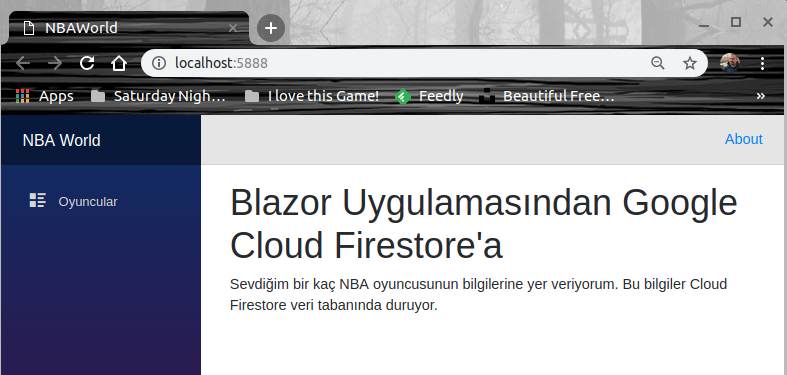
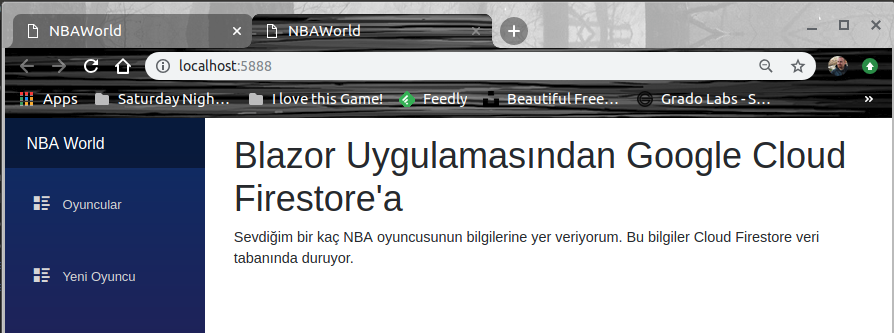
silme operasyonu eklendi

diff --git a/No 35 - Server Side Blazor with Firestore/src/NBAWorld/NBAWorld.Client/Pages/PlayerData.cshtml.cs b/No 35 - Server Side Blazor with Firestore/src/NBAWorld/NBAWorld.Client/Pages/PlayerData.cshtml.cs
@@ -13,7 +13,7 @@ namespace NBAWorld.Client.Pages
     Razor sayfamız tarafından kullanılan Blazor bileşeni.
     Doğrudan PlayersController APIsi ile konuşur.
      */
-    public class PlayerDataModel 
+    public class PlayerDataModel
     : BlazorComponent
     {
         /*
@@ -32,6 +32,18 @@ namespace NBAWorld.Client.Pages
         {
             // api/Players tahmin edileceği üzere PlayersController'a yapılan bir çağrıdır
             playerList = await Http.GetJsonAsync<List<Player>>("api/Players");
+        }
+
+        /*
+            bir dokümanı (yani oyuncuyu) silmek için kullandığımız fonksiyon
+         */
+        protected async Task DeletePlayer(string documentId)
+        {
+            // Doğrudan HTTP delete tipinden bir çağrı yapıyoruz
+            // QueryString parametresi olarak arayüzden gelen doküman Id bilgisini kullanıyoruz
+            await Http.DeleteAsync($"/api/Players/{documentId}");
+            // Silme işlemi sonrası listeyi tekrar güncellemekte yarar var.
+            await GetAllPlayers();
         }
     }
 }

diff --git a/No 35 - Server Side Blazor with Firestore/src/NBAWorld/NBAWorld.Server/Data/PlayerDAL.cs b/No 35 - Server Side Blazor with Firestore/src/NBAWorld/NBAWorld.Server/Data/PlayerDAL.cs
@@ -76,5 +76,17 @@ namespace NBAWorld.Server.Data
             // awaitable AddAsync metodu ile ekle
             await collRef.AddAsync(player);
         }
+
+        /*
+        Firestore'dan doküman silme işlemini üstlenen metodumuz
+         */
+        public async void DeletePlayer(string documentId)
+        {
+            // documentId bilgisini kullanarak players koleksiyonda ilgili dokümanı bul
+            DocumentReference document = db.Collection("players").Document(documentId);
+            // bulunan dokümanı sil
+            // TODO: Buraya bir null check konulmalı.
+            await document.DeleteAsync();
+        }
     }
 }

diff --git a/No 35 - Server Side Blazor with Firestore/src/NBAWorld/NBAWorld.Server/Controllers/PlayersController.cs b/No 35 - Server Side Blazor with Firestore/src/NBAWorld/NBAWorld.Server/Controllers/PlayersController.cs
@@ -33,5 +33,16 @@ namespace NBAWorld.Server.Controllers
         {
             playerDAL.NewPlayer(player);
         }
+
+        /*
+        Silme işlemini üstlenen metodumuz.
+        Querystring ile gelen id değerini kullanır.
+        Data Access Layer nesnesindeki DeletePlayer metodunu çağırır.
+         */
+        [HttpDelete("{documentId}")]
+        public void Delete(string documentId)
+        {
+            playerDAL.DeletePlayer(documentId);
+        }
     }
 }

diff --git a/No 35 - Server Side Blazor with Firestore/README.md b/No 35 - Server Side Blazor with Firestore/README.md
@@ -103,9 +103,11 @@ dotnet add package Google.Cloud.Firestore --version 1.0.0-beta19
 
 ## Çalışma Zamanı
 
-Uygulamayı WestWorld'de yazmaya çalıştığım için Visual Studio Code ve bir Solution ile karşı karşıyayım. Visual Studio Code'da NBAWorld klasörünü ayrıca açıp F5 tuşuna bastım. Bana çözümü hangi derleyici ile debug etmek istediğim soruldu. '.Net Core' seçeneğini işaretlediğimde ilgili Debug ayarları JSON dosyasına eklendi ve Build işlemi başladı. Ardından uygulama ayağa kalkıp _(ki oraya gelene kadar aldığım hataları düzelttim)_ http://localhost:5888/ adresinden yayına başladı.
+Uygulamayı WestWorld'de yazmaya çalıştığım için Visual Studio Code ve bir Solution ile karşı karşıyayım. Visual Studio Code'da NBAWorld klasörünü ayrıca açıp F5 tuşuna bastım. Bana çözümü hangi derleyici ile debug etmek istediğim soruldu. '.Net Core' seçeneğini işaretlediğimde ilgili Debug ayarları JSON dosyasına eklendi ve Build işlemi başladı. Ardından uygulama ayağa kalkıp _(ki oraya gelene kadar aldığım hataları düzelttim)_ http://localhost:5888/ adresinden yayına başladı. 
 
 ![assets/credit_11.png](assets/credit_11.png)
+
+Oyuncular linkine basıldığında oluşan örnek ekran görüntülerinden birisi şöyle.
 
 ![assets/credit_12.png](assets/credit_12.png)
 
@@ -126,5 +128,6 @@ Yeni bir efsane eklemek için NewPlayer sayfasını kullanabiliriz.
 - FirestoreData ve FirestoreProperty niteliklerinin kullanımını
 - Ortak kütüphanede model oluşturmayı
 - Server Side tarafında Firestore ile haberleşen bir Data Access nesnesi yazmayı
+- Firestore tarafındaki asıl CRUD operasyonlarını yapan DAL nesnesine önyüzden, API Controller yardımıyla nasıl gelinebileceğini
 
 >throw new ToBeContinuedException();
